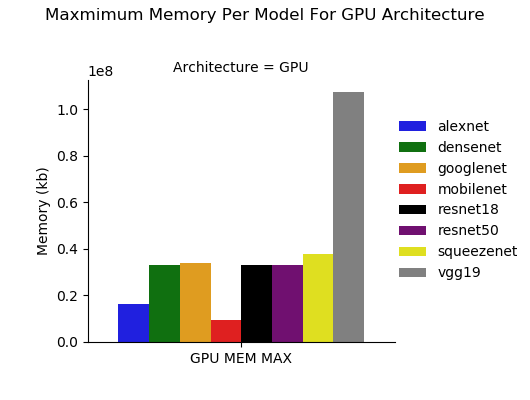
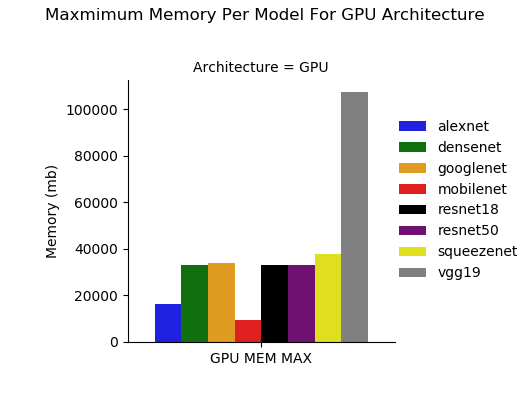
Visualizations

diff --git a/csv/viz.py b/csv/viz.py
@@ -13,14 +13,23 @@ import seaborn as sns
 
 dataCPU = pd.read_csv('MemoryUsage_CPU.csv')
 dataCPU['Architecture'] = 'CPU'
+dataCPU['CPU TOTAL TIME'] = dataCPU['CPU TOTAL TIME']/1000
+dataCPU['GPU TOTAL TIME'] = dataCPU['GPU TOTAL TIME']/1000
+dataCPU['CPU MEM MAX'] = dataCPU['CPU MEM MAX']/1000
+dataCPU['GPU MEM MAX'] = dataCPU['GPU MEM MAX']/1000
 dataCPU = pd.melt(dataCPU, id_vars=['Model', 'Architecture'], var_name='Metric', value_name='value')
 
 dataGPU = pd.read_csv('MemoryUsage_GPU.csv')
 dataGPU['Architecture'] = 'GPU'
+dataGPU['CPU TOTAL TIME'] = dataGPU['CPU TOTAL TIME']/1000
+dataGPU['GPU TOTAL TIME'] = dataGPU['GPU TOTAL TIME']/1000
+dataGPU['CPU MEM MAX'] = dataGPU['CPU MEM MAX']/1000
+dataGPU['GPU MEM MAX'] = dataGPU['GPU MEM MAX']/1000
 dataGPU = pd.melt(dataGPU, id_vars=['Model', 'Architecture'], var_name='Metric', value_name='value')
 
 
 data = pd.concat([dataCPU,dataGPU])
+
 
 g = sns.FacetGrid(data,
             col='Architecture',
@@ -35,9 +44,9 @@ g.add_legend()
 
 g.axes[0,0].set_xlabel('Computation')
 g.axes[0,1].set_xlabel('Computation')
-g.axes[0,0].set_ylabel('Time (ms)')
-g.axes[0,1].set_ylabel('Time (ms)')
-g.fig.suptitle('Computation Time By Architecture')
+g.axes[0,0].set_ylabel('Time (s)')
+g.axes[0,1].set_ylabel('Time (s)')
+g.fig.suptitle('Computation Time By Architecture', size=16)
 g.fig.subplots_adjust(top=0.8)
 plt.savefig('TimeStats.png', dpi=100)
 
@@ -49,7 +58,7 @@ g = sns.FacetGrid(dataCPU,
             col='Architecture',
             sharex=False,
             sharey=False,
-            height=4)
+            height=5)
 g = g.map(sns.barplot, 'Metric', 'value', 'Model', 
           hue_order=np.unique(dataCPU['Model']), 
           order=['CPU MEM MAX'], 
@@ -57,9 +66,9 @@ g = g.map(sns.barplot, 'Metric', 'value', 'Model',
 g.add_legend()
 
 g.axes[0,0].set_xlabel('')
-g.axes[0,0].set_ylabel('Memory (kb)')
+g.axes[0,0].set_ylabel('Memory (mb)')
 
-g.fig.suptitle('Maxmimum Memory Per Model For CPU Architecture')
+g.fig.suptitle('Maxmimum Memory Per Model For CPU Architecture', size=12)
 g.fig.subplots_adjust(top=0.8)
 
 plt.savefig('CPUMemStats.png', dpi=100)
@@ -76,9 +85,9 @@ g = g.map(sns.barplot, 'Metric', 'value', 'Model',
 g.add_legend()
 
 g.axes[0,0].set_xlabel('')
-g.axes[0,0].set_ylabel('Memory (kb)')
+g.axes[0,0].set_ylabel('Memory (mb)')
 
-g.fig.suptitle('Maxmimum Memory Per Model For GPU Architecture')
+g.fig.suptitle('Maxmimum Memory Per Model For GPU Architecture', size=12)
 g.fig.subplots_adjust(top=0.8)
 
 plt.savefig('GPUMemStats.png', dpi=100)
@@ -87,7 +96,7 @@ g = sns.FacetGrid(dataCPU,
             col='Architecture',
             sharex=False,
             sharey=False,
-            height=4)
+            height=5)
 g = g.map(sns.barplot, 'Metric', 'value', 'Model', 
           hue_order=np.unique(dataGPU['Model']), 
           order=['PARAMS'], 
@@ -97,7 +106,7 @@ g.add_legend()
 g.axes[0,0].set_xlabel('')
 g.axes[0,0].set_ylabel('Total Number')
 
-g.fig.suptitle('Number of Parameters Per Model')
+g.fig.suptitle('Number of Parameters Per Model', size=16)
 g.fig.subplots_adjust(top=0.8)
 
 plt.savefig('Params.png', dpi=100)

diff --git a/csv/accViz.py b/csv/accViz.py
@@ -9,21 +9,71 @@ import matplotlib.pyplot as plt
 
 import pandas as pd
 import seaborn as sns
+import numpy as np
 
 dataAcc = pd.read_csv('TestScores_CPU.csv')
 dataAcc.columns = ['Model', 'Accuracy', 'F1', 'Calls']
+dataAcc = dataAcc.drop(['Calls'], axis=1)
+dataAcc = pd.melt(dataAcc, id_vars="Model", var_name="Metric", value_name="Score")
 
-ax = sns.barplot(x = "Accuracy", y = "Model", palette = 'bright', data = dataAcc)
+#ax = sns.barplot(x = "Model" , y = ["Accuracy", "F1"], palette = 'bright', data = dataAcc)
+sns.catplot(x='Metric', y='Score', hue='Model', palette=sns.color_palette(['blue','green', 'orange', 'red', 'black', 'purple', 'yellow', 'gray']), data=dataAcc, kind='bar')
 
 # displaying the title
-plt.title(label="Accuracy Per Model",
-          fontsize=20,
+plt.title(label="Accuracy/F1 Score Per Model",
+          fontsize=16,
           color="black")
 
-for i, p in enumerate(ax.patches):
-    ax.annotate("%.2f" % (p.get_width()),
-                (p.get_x() + p.get_width() - 0.1, p.get_y() +0.75),
-                xytext=(5, 10), textcoords='offset points', color='white')
-
-plt.tight_layout()
+plt.subplots_adjust(top=.9)
 plt.savefig('Accuracy.png', dpi=100)
+
+
+
+
+
+
+classAlex = pd.read_csv('Classification_alexnet_GPU.csv')
+classAlex['Model'] = 'AlexNet'
+classDense = pd.read_csv('Classification_densenet_GPU.csv')
+classDense['Model'] = 'DenseNet'
+classResnet18 = pd.read_csv('Classification_resnet18_GPU.csv')
+classResnet18['Model'] = 'Resnet18'
+classResnet50 = pd.read_csv('Classification_resnet50_GPU.csv')
+classResnet50['Model'] = 'Resnet50'
+classMobile = pd.read_csv('Classification_mobilenet_GPU.csv')
+classMobile['Model'] = 'MobileNet'
+classGoogle = pd.read_csv('Classification_googlenet_GPU.csv')
+classGoogle['Model'] = 'GoogleNet'
+classVGG = pd.read_csv('Classification_vgg19_GPU.csv')
+classVGG['Model'] = 'VGG'
+classSqueeze = pd.read_csv('Classification_squeezenet_GPU.csv')
+classSqueeze['Model'] = 'Squeezenet'
+
+classData = pd.concat([classAlex, classDense, classResnet18, classResnet50, classMobile, classGoogle, classVGG, classSqueeze])
+classData.columns = ['Class', 'Precision','Recall' ,'F1', 'Support', 'Model']
+classData = pd.melt(classData, id_vars=['Model', 'Class'], var_name='Metric', value_name='Score')
+
+mask = classData['Class'].isin(['Normal', 'COVID-19', 'Lung_Opacity', 'Viral'])
+classData = classData[mask]
+
+
+g = sns.FacetGrid(classData,
+            col='Class',
+            sharex=False,
+            sharey=False,
+            height=3.5, col_wrap = 2)
+g = g.map(sns.barplot, 'Metric', 'Score', 'Model', 
+          hue_order=np.unique(classData['Model']), 
+          order=['Precision','Recall' ,'F1'], 
+          palette=sns.color_palette(['blue','green', 'orange', 'red', 'black', 'purple', 'yellow', 'gray']))
+g.add_legend()
+
+
+
+g.axes[2].set_xlabel('')
+g.axes[3].set_xlabel('')
+g.fig.suptitle("Classification Report By Model and Class", size=16)
+g.fig.subplots_adjust(top=.9)
+
+#plt.tight_layout()
+plt.savefig("Classifications.png", dpi=100)
